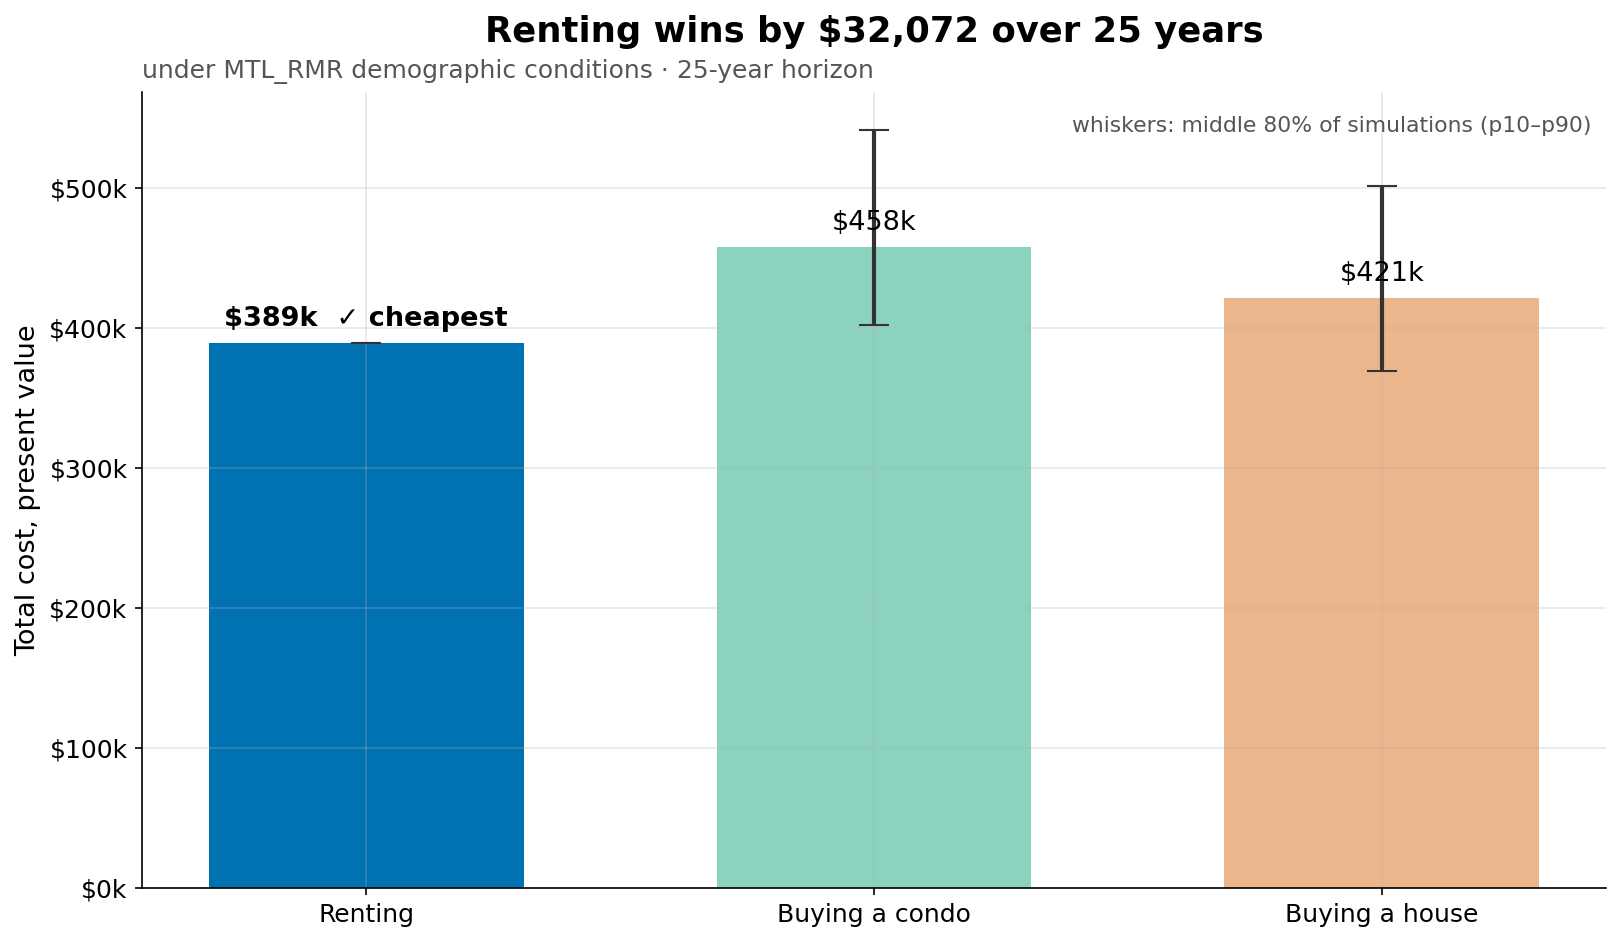
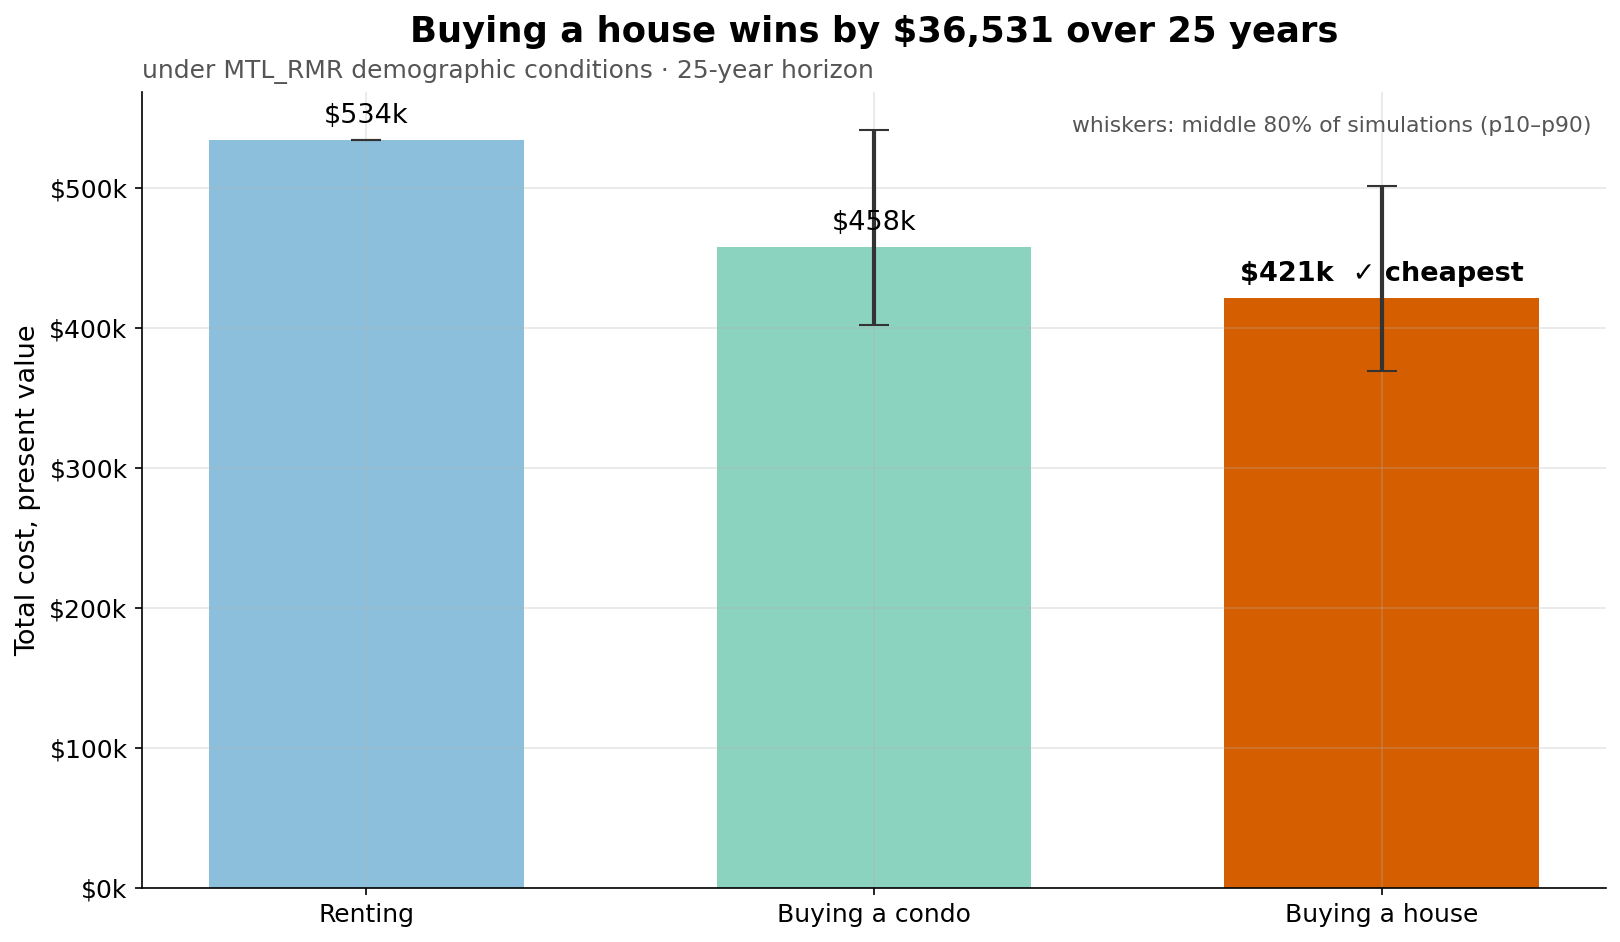
fix(engine): charge the renter's invested capital at year 0 — every verdict leaned toward renting by exactly the down payment
Found by the user-model dogfood (2026-09-02): the rent option credited the
invested down payment's terminal value −D(1+r)^N/(1+dr)^N without ever
charging the D outlay, while the owned side charges downpayment_pv = +D and
credits terminal equity. Null case (buyer all-cash V with no growth, fees or
selling cost; renter with D = V invested at exactly the discount rate) showed
a gap of V + V(1−(1+dr)^−N) where the truth is V(1−(1+dr)^−N): a bias of D
toward renting in every comparison with invested_down_payment > 0.

- New rent breakdown key invested_capital_pv = +D (year 0, undiscounted),
  the mirror of downpayment_pv; invested_dp_benefit_pv unchanged. The net
  capital term D − D(1+r)^N/(1+dr)^N is zero when r_inv = dr, so omitting D
  now means "the renter earns exactly the discount rate", and the
  like-for-like warning, schema note, anchor rationale and glossary say so.
- Monte Carlo rent path books the same leg; act-2 "paid" curve shows the
  renter's outlay at year 0 like the buyer's down payment.
- Tests: capital charged at year 0; null-case gap equals the time value of a
  non-yielding asset; zero-vol MC equals deterministic.
- Shipped examples move accordingly: the showcase headline goes from
  "Renting wins by $32,072" to "Buying a house wins by $36,531" (P = 70%);
  docs/story regenerated (byte-stable on a second render).

Changed region(s): [[0.1235, 0.0924, 0.3395, 0.9544], [0.7407, 0.2771, 0.9568, 0.9544], [0.2469, 0.0, 0.8333, 0.0616]]

diff --git a/tests/test_deterministic.py b/tests/test_deterministic.py
@@ -570,3 +570,41 @@ class TestNominalRentOtherCosts:
         det = compute_deterministic(spec)
         mc = run_monte_carlo(spec)
         assert mc.rent.summary.mean == pytest.approx(det.rent.total_pv)
+
+
+class TestRenterCapitalSymmetry:
+    """2026-09-02 (user-model dogfood): the renter's invested capital must be
+    charged at year 0 exactly as the buyer's down payment is; only the excess of
+    its return over the discount rate may move the verdict."""
+
+    def test_capital_charged_at_year_zero(self):
+        rent = RentParams(monthly_rent=1.0, rent_escalation_rate=0.0,
+                          invested_down_payment=100_000.0, investment_return_rate=0.05)
+        result = compute_deterministic(_spec(rent=rent, years=10, dr=0.05))
+        assert result.rent.breakdown["invested_capital_pv"] == 100_000.0
+        # at r_inv == dr the capital leg nets to zero: total is the rent alone
+        assert result.rent.total_pv == pytest.approx(result.rent.breakdown["rent_pv"], abs=1e-6)
+
+    def test_null_case_gap_is_only_the_time_value_of_a_non_yielding_asset(self):
+        """Buyer: all-cash V, no growth/fees/selling cost. Renter: ~no rent, D = V
+        invested at dr. Truth: buyer cost = V(1 − (1+dr)^−N), renter cost ≈ 0."""
+        from hde.config import load_config_dict
+        cfg = {"years": 10, "discount_rate": 0.03,
+               "condo": {"monthly_fee": 0, "initial_value": 100_000, "all_cash": True,
+                         "value_growth_rate": 0.0, "selling_cost_rate": 0.0},
+               "rent": {"monthly_rent": 0.01, "rent_escalation_rate": 0.0,
+                        "invested_down_payment": 100_000, "investment_return_rate": 0.03}}
+        det = compute_deterministic(load_config_dict(cfg))
+        truth = 100_000 * (1 - 1.03 ** -10)
+        assert det.condo.total_pv == pytest.approx(truth, rel=1e-9)
+        assert det.rent.total_pv == pytest.approx(0.0, abs=2.0)
+
+    def test_monte_carlo_books_the_same_capital_leg(self):
+        from hde.config import load_config_dict
+        from hde.monte_carlo import run_monte_carlo
+        cfg = {"years": 10, "discount_rate": 0.03,
+               "rent": {"monthly_rent": 1500, "invested_down_payment": 80_000,
+                        "investment_return_rate": 0.04},
+               "simulation": {"num_sims": 3, "random_seed": 1}}
+        spec = load_config_dict(cfg)
+        assert run_monte_carlo(spec).rent.summary.mean == pytest.approx(compute_deterministic(spec).rent.total_pv)

diff --git a/src/hde/deterministic.py b/src/hde/deterministic.py
@@ -359,10 +359,15 @@ def _compute_rent_option(
       - rent_pv:                 PV of escalating rent
       - events_pv:               PV of one-time events (e.g., moving costs)
       - other_pv:                PV of other recurring costs
-      - invested_dp_benefit_pv:  NEGATIVE PV of the invested down-payment benefit
-                                  (a renter keeps the down payment invested; this
-                                  reduces the net cost of renting, so it is stored
-                                  as a negative offset).
+      - invested_capital_pv:     the renter's invested capital, charged at year 0
+                                  (undiscounted) exactly as the buyer's downpayment_pv
+                                  is — the outlay half of the capital leg.
+      - invested_dp_benefit_pv:  NEGATIVE PV of that capital's terminal value
+                                  D(1+r_inv)^N/(1+dr)^N — the return half. Net capital
+                                  term = D − D(1+r_inv)^N/(1+dr)^N: zero when the renter
+                                  earns exactly the discount rate. (Before 2026-09-02 the
+                                  outlay was never charged, biasing every verdict toward
+                                  renting by exactly D — found by the user-model dogfood.)
     """
     dr = sim.discount_rate
     rent_escalation = _effective_growth_rate(rent.rent_escalation_rate, econ)
@@ -383,12 +388,14 @@ def _compute_rent_option(
     else:
         benefit = 0.0
     invested_dp_benefit_pv = -benefit  # negative = reduces cost
+    invested_capital_pv = rent.invested_down_payment  # year-0 outlay, undiscounted
 
-    total_pv = rent_pv + events_pv + other_pv + invested_dp_benefit_pv
+    total_pv = rent_pv + events_pv + other_pv + invested_capital_pv + invested_dp_benefit_pv
     breakdown = {
         "rent_pv": rent_pv,
         "events_pv": events_pv,
         "other_pv": other_pv,
+        "invested_capital_pv": invested_capital_pv,
         "invested_dp_benefit_pv": invested_dp_benefit_pv,
     }
     assert set(breakdown.keys()) == RENT_BREAKDOWN_KEYS

diff --git a/src/hde/anchors.py b/src/hde/anchors.py
@@ -346,10 +346,11 @@ ANCHORS: Dict[str, Anchor] = {
         url="none (deliberately uncited)",
         rationale=(
             "$0 is the only honest default: the engine cannot know what the "
-            "renter would invest instead of a down payment. Leaving it at 0 "
-            "while an owned option puts capital down charges the buyer's capital "
-            "and lets the renter's vanish — the verdict is then not like-for-like, "
-            "and coherence_warnings says so. Zero-width band: any non-zero value "
+            "renter would invest instead of a down payment. It is charged at year 0 "
+            "exactly like the buyer's down payment and credited at its terminal "
+            "value, so leaving it at 0 while an owned option puts capital down "
+            "assumes the renter's equivalent capital earns exactly the discount "
+            "rate (net present value 0) — coherence_warnings says so. Zero-width band: any non-zero value "
             "is the user's, not the engine's."
         ),
         band=(0.0, 0.0),

diff --git a/src/hde/input_schema.py b/src/hde/input_schema.py
@@ -84,9 +84,9 @@ _NOTES: Dict[str, Dict[str, Any]] = {
         "monthly_rent": (True, "$/month"),
         "rent_escalation_rate": (False, "annual; DEFAULT 0.01 real (FP Canada 2026 "
                                           "PAG shelter-cost growth)"),
-        "invested_down_payment": (False, "capital the renter invests instead; "
-                                        "DEFAULT 0 — set it or the comparison is "
-                                        "not like-for-like"),
+        "invested_down_payment": (False, "capital the renter keeps invested instead of buying: charged at year 0 like "
+                                        "the buyer's down payment and credited at its terminal value; "
+                                        "DEFAULT 0 = assume it earns exactly the discount rate"),
         "investment_return_rate": (False, "annual; DEFAULT 0.03 real (FP Canada 2026 "
                                             "PAG 60/40)"),
         "events": (False, "list of {name, base_cost, expected_year, ...}"),

diff --git a/src/hde/monte_carlo.py b/src/hde/monte_carlo.py
@@ -509,7 +509,8 @@ def _simulate_rent_pv_once(
             esc = (1 + esc) * (1 + econ.inflation_rate) - 1
         other_pv += pv_recurring_with_escalation(annual, esc, dr, sim.years)
 
-    # Invested down-payment benefit (reduces net cost of renting).
+    # Capital leg, mirroring the owned side (downpayment_pv + terminal equity):
+    # the renter's capital is charged at year 0 and its terminal value credited.
     if rent.invested_down_payment > 0:
         if sim.investment_return_vol > 0:
             z_inv = float(rng.normal())
@@ -521,7 +522,7 @@ def _simulate_rent_pv_once(
     else:
         benefit = 0.0
 
-    return rent_pv + events_pv + other_pv - benefit
+    return rent_pv + events_pv + other_pv + rent.invested_down_payment - benefit
 
 
 def _compute_income_affordability_once(

diff --git a/src/hde/story_plots.py b/src/hde/story_plots.py
@@ -285,8 +285,10 @@ def _cumulative_cost_curves(
                 flows[year] += rec.annual_amount * (1 + g) ** year
         if rent.invested_down_payment > 0:
             r_inv = rent.investment_return_rate
-            # benefit PV = FV/(1+dr)^N (engine arithmetic); lift to a year-N
-            # flow so the curve discounts it exactly once.
+            # Capital leg as the engine books it: the outlay at year 0 (paid, like
+            # the buyer's down payment) and the terminal value at year N (credit);
+            # the credit is a year-N flow so the curve discounts it exactly once.
+            flows[0] = flows.get(0, 0.0) + rent.invested_down_payment
             credits[n] = -rent.invested_down_payment * ((1 + r_inv) ** n)
         curves["rent"] = _flows_to_curves(flows, credits)
 

diff --git a/src/hde/config.py b/src/hde/config.py
@@ -309,8 +309,9 @@ def coherence_warnings(spec: ComparisonSpec) -> List[str]:
     ):
         warns.append(
             f"owned options put ${owned_down:,.0f} down but "
-            f"rent.invested_down_payment=0 — renter capital unmodeled, "
-            f"verdict not like-for-like"
+            f"rent.invested_down_payment=0 — the renter's equivalent capital is assumed to earn "
+            f"exactly the discount rate (net present value 0); set invested_down_payment + "
+            f"investment_return_rate to model a different return (verdict not like-for-like)"
         )
 
     return warns

diff --git a/src/hde/models.py b/src/hde/models.py
@@ -312,7 +312,7 @@ HOUSE_BREAKDOWN_KEYS: FrozenSet[str] = frozenset(
     {"maintenance_pv", "events_pv", "other_pv",
      "downpayment_pv", "mortgage_pv", "terminal_equity_pv"}
 )
-RENT_BREAKDOWN_KEYS: FrozenSet[str] = frozenset({"rent_pv", "events_pv", "other_pv", "invested_dp_benefit_pv"})
+RENT_BREAKDOWN_KEYS: FrozenSet[str] = frozenset({"invested_capital_pv", "rent_pv", "events_pv", "other_pv", "invested_dp_benefit_pv"})
 
 
 @dataclass

diff --git a/docs/story/STORY.md b/docs/story/STORY.md
@@ -2,25 +2,25 @@
 
 # The story of this housing decision
 
-**Renting wins by $32,072 over 25 years** — under MTL_RMR demographic conditions · 25-year horizon.
+**Buying a house wins by $36,531 over 25 years** — under MTL_RMR demographic conditions · 25-year horizon.
 
 Demographic prior: MTL_RMR demand model (ISQ 2026 scenarios, 2021 census) · constants as of 2026-07-21 · simulation year 1 = calendar 2026, bands 2030/2035/2040/2045/2050 · mapping v1: excess-demand rate → real price drift through a linear-through-origin β prior with the uniform β demoflow pinned; horizon bands (2030…2050) are piecewise-constant with no interpolation; drawdown_weight_tilt multiplies the user's price-shock hazard (S4b sketch §1 slots 2–3, §3) · 13 pinned sources (sha256 in --json): StatCan 98-10-0231-01; ISQ arrival flows (RA); ISQ arrival flows (RMR); derived: headship rate by single year of age; StatCan 98-10-0232-01; derived: living-arrangement shares; StatCan 98-10-0134-01; CIA CPM2014 mortality + CPM-B scale; derived: ownership rate by geography × age; derived: HORS_RMR ownership curve; ISQ population scenarios (QC); ISQ population scenarios (RA); ISQ population scenarios (RMR).
 
 ## Act — The answer
 
-Renting wins by $32,072 over 25 years
+Buying a house wins by $36,531 over 25 years
 
 ![The answer](act1_the_answer.png)
 
 ## Act — The race
 
-Renting costs less out of pocket every single year — the ranking never flips (before the end-of-horizon equity credit, which decides the verdict).
+The lead changes hands in year 25, when buying a house overtakes renting — cheapest early is not cheapest at the end.
 
 ![The race](act2_the_race.png)
 
 ## Act — The uncertainty
 
-In 81% of 5,000 simulations, renting came out cheapest.
+In 70% of 5,000 simulations, buying a house came out cheapest.
 
 ![The uncertainty](act3_the_uncertainty.png)
 
@@ -38,7 +38,7 @@ The demographic signal itself: projected price drift from household demand in MT
 
 ## Act — The market line
 
-Renting stays cheaper than buying a house until rent passes $2,544/mo — your $2,400 is $144/mo below that line.
+Rent is past the break-even: $2,400/mo quoted vs a $1,893/mo flip point — buying the cheaper option already wins at these rent levels.
 
 ![The market line](act6_the_market_line.png)
 

diff --git a/docs/reference/ARCHITECTURE.md b/docs/reference/ARCHITECTURE.md
@@ -89,8 +89,9 @@ Monte Carlo (below). A price-shock block likewise affects only the Monte Carlo.
 | `rent_pv` | PV of rent | `Σ_t 12·rent·(1 + e_eff)^t · (1 + dr)^-t` (closed form: growing annuity with first payment `12·rent·(1 + e_eff)`), `e_eff` from `rent_escalation_rate` |
 | `events_pv` | one-time events (e.g. moving) | `base_cost · (1 + dr)^-year` at `expected_year` clamped to `[1, N]` |
 | `other_pv` | other recurring costs | as for owned options |
-| `invested_dp_benefit_pv` | the renter's invested capital, as a NEGATIVE offset | `−D (1 + r_inv)^N / (1 + dr)^N`, `D = invested_down_payment`, `r_inv = investment_return_rate` as entered (not inflation-composed); 0 when `D = 0` |
-| `total_pv` | net cost of renting | sum of the four |
+| `invested_capital_pv` | the renter's capital charged at year 0 — the mirror of `downpayment_pv` | `D = invested_down_payment`, undiscounted |
+| `invested_dp_benefit_pv` | that capital's terminal value, as a NEGATIVE offset | `−D (1 + r_inv)^N / (1 + dr)^N`, `r_inv = investment_return_rate` as entered (not inflation-composed). Net capital term `D − D(1 + r_inv)^N/(1 + dr)^N` is 0 when `r_inv = dr`, so omitting `D` assumes the renter earns exactly the discount rate. (Until 2026-09-02 the year-0 charge was missing — every verdict leaned toward renting by exactly `D`) |
+| `total_pv` | net cost of renting | sum of the five |
 
 ### The verdict — `verdict`
 

diff --git a/examples/README.md b/examples/README.md
@@ -50,7 +50,7 @@ Acts 1–4 render here (no rent option, no prior). The six acts:
 uv run hde examples/rent_vs_condo_vs_house.yaml
 ```
 
-Acts 1–4 and 6, now three runners in the race. Watch act 2: renting starts cheapest (no down payment) and the crossover year — if any — is the whole decision.
+Acts 1–4 and 6, now three runners in the race. Watch act 2: the renter's invested capital is charged at year 0 exactly like the buyer's down payment, so the runners start level on capital and separate on carrying costs; the crossover year — if any — is the whole decision.
 
 ## 3. `income_shock.yaml` — affordability under a pay cut
 
